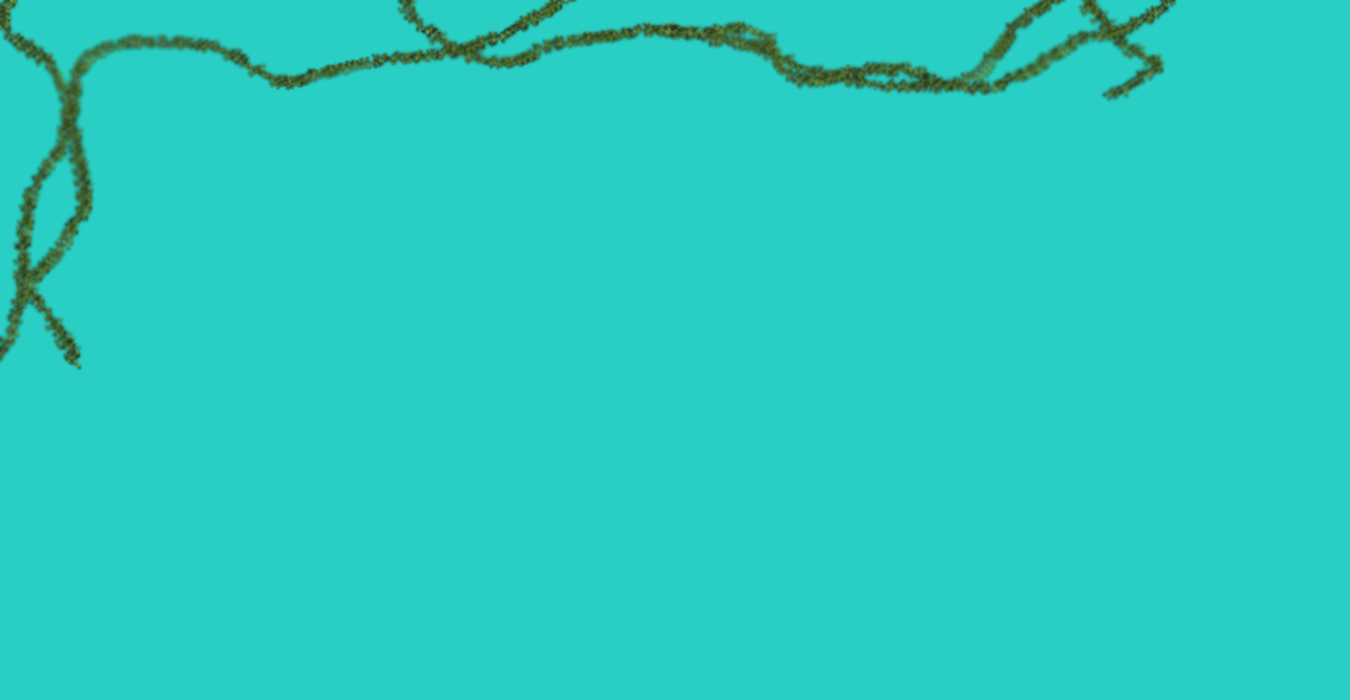
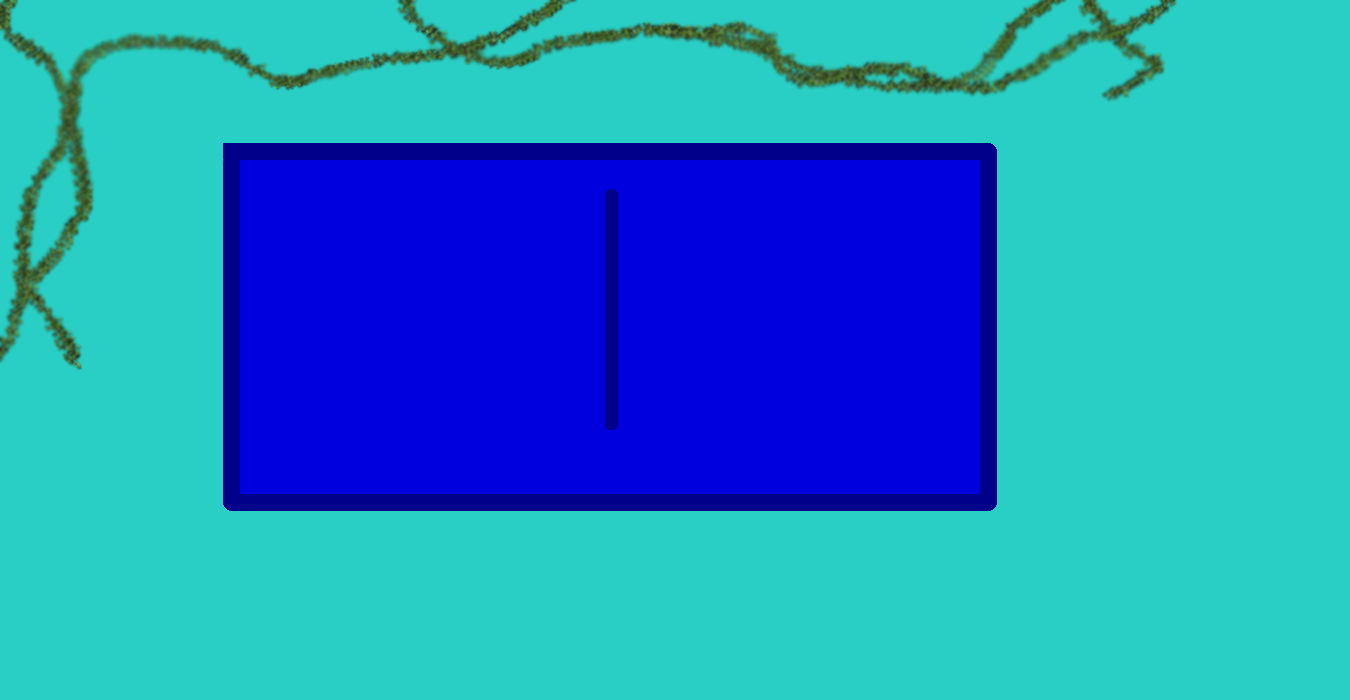
Editing and polish

diff --git a/page3-test.html b/page3-test.html
@@ -12,19 +12,27 @@
 			-o-background-size: cover;
 			background-size: cover;
 		}
+
+		article, aside, figure, footer, header, hgroup,
+		menu, nav, section { display: block; }
+
 	</style>
 
 	<script src="script.js"></script>
-        <script src="https://code.jquery.com/jquery-1.10.2.js"></script>
+  <script src="https://code.jquery.com/jquery-1.10.2.js"></script>
+
 </head>
 
-<body><center><font size='7'><font color="#7e2323">
+<body>
+<br><br><br><center><font size='7'>
+	<font color="darkblue">
+<!--		<font color="#7e2323">-->
+
 <script type="text/javascript">
 document.writeln ('Your plant is ' + GET('name') + ' .' );
 </script><br><center></font>
 
-<!--
--- Input:
+<!--Input:
 http://foo.com/request?habitat="upland"&thornsp="no"&firp="yes"&name=""
 
 habitat: upland/downland/scrub/forest/sandy
@@ -32,64 +40,47 @@ thornsp: does it have thorns? (yes/no)
 firp:    does it have fir? (yes/no)
 name:    common name (optional)
 
--- Output:
+Output:
 {"Latin name","common name","imgurl","wikiurl","habitat","thornsp","firp"}
 -->
 
-<div id="plant-image"></div>
 <script>
-(function() {
-  var plantAPI = "http://yrs2015plant-finnoleary.rhcloud.com/dummy?";
-  $.getJSON( plantAPI, {
-    thorns: "yes",
-    habitat: "scrub",
-    format: "json"
-  })
-    .done(function( data ) {
-      $.each( data.items, function( i, item ) {
-        $( "<img>" ).attr( "src", item.media.m ).appendTo( "#plant-image" );
-        if ( i === 3 ) {
-          return false;
-        }
-      });
-    });
-})();
-</script>
 
-
-<div id="images"></div>
- 
-<script>
+var plantname = GET('name');
 (function() {
   var flickerAPI = "http://api.flickr.com/services/feeds/photos_public.gne?jsoncallback=?";
   $.getJSON( flickerAPI, {
-    tags: "deadly nightshade",
-    tagmode: "any",
-    format: "json"
+		tags: plantname,
+		tagmode: "any",
+		format: "json"
   })
     .done(function( data ) {
       $.each( data.items, function( i, item ) {
-        $( "<img>" ).attr( "src", item.media.m ).appendTo( "#images" );
-        if ( i === 3 ) {
+        $( "<img>" ).attr( "src", item.media.m ).appendTo( "#stock-image" );
+        if ( i === 0 ) {
           return false;
         }
       });
     });
 })();
+
 </script>
 
-<img src="Boz.png"
-   style="position:relative; left: 100px; top: 0px; width:700px; height: 400px; border:none;"
-   alt="Box"
-   title="Box" />
+<br><br><right><div>
+  <img id="stock-image" style="position: absolute; top: 500; center: 5;"/>
+</div></right>
 
-<a href="second_page_for_will_i_die.html"><img src="Upload Photo.png"
-   style="position:relative; right: 220px; top: 64px; width: 195px; height: 130px; broder: none;"
+<!--<br><br><left><div>
+	<img id="blah" src="#" style="position: relative; top: 500; left: 0;"/>
+</div></left>-->
+
+<br><br><br><br><br><a href="second_page_for_will_i_die.html"><img src="Upload Photo.png"
+   style="position:relative; center: 5px; top: 33px; width: 195px; height: 130px; broder: none;"
    alt="Upload"
    title="Upload" />
 
 <a href='Will-I-Die-HomePage.hml'><img src="Finished Button.png"
-   style="position:relative; right: 610px; top: 29px; width:139px; height: 69px; border:none;"
+   style="position:relative; center: 5px; top: 0px; width:139px; height: 69px; border:none;"
    alt="Finished button"
    title="Finish" />
 

diff --git a/second_page_for_will_i_die.html b/second_page_for_will_i_die.html
@@ -3,6 +3,11 @@
 
 <head>
 
+	<link class="jsbin" href="http://ajax.googleapis.com/ajax/libs/jqueryui/1/themes/base/jquery-ui.css" rel="stylesheet" type="text/css" />
+	<script class="jsbin" src="http://ajax.googleapis.com/ajax/libs/jquery/1/jquery.min.js"></script>
+	<script class="jsbin" src="http://ajax.googleapis.com/ajax/libs/jqueryui/1.8.0/jquery-ui.min.js"></script>
+	<meta charset=utf-8 />
+
 	<style>
 		html {
 			background: url(p2background.png) no-repeat center center fixed;
@@ -12,7 +17,7 @@
 			background-size: cover;
 		}
 	</style>
-	
+
 	<script src="script.js"></script>
 
     <h3> Upload your picture here</h3>
@@ -64,8 +69,8 @@
     border-radius:3px;
 
     position: absolute;
-left: 330px;
-top: 250px;
+		left: 296px;
+		top: 185px;
 
     box-shadow: 0 0 10px rgba(0, 0, 0, 0.3);
 }
@@ -176,16 +181,42 @@ top: 250px;
     color:red;
 }
 
+		article, aside, figure, footer, header, hgroup,
+		menu, nav, section { display: block; }
+
   </style>
 
   <p id = "mainParagraph"> Upload your picture so we can match your picture to the type
   of plant and so we can determine whether it is poisonous. You can drag and drop your photos here or you can press the upload button for it to work.</p>
 
-  <form method="GET" action="page3.html">
+  <form method="GET" action="page3-test.html">
 	<div style="margin-left: 64%">
     Plant Name: <input type="text" name="name" value="">
-    <input type="submit" value="send">
+		<input type="submit" value="send">
   </form>
+
+<!--<form method="GET" action="page3-test.html">
+<div style="margin-left: 64%">
+	Upload: <input type='file' name="picture-test" onchange="readURL(this);" />
+	<input type="submit" value="send">
+</form>-->
+
+<script>
+function readURL(input) {
+			 if (input.files && input.files[0]) {
+					 var reader = new FileReader();
+
+					 reader.onload = function (e) {
+							 $('#blah')
+									 .attr('src', e.target.result)
+									 .width(150)
+									 .height(200);
+					 };
+
+					 reader.readAsDataURL(input.files[0]);
+			 }
+	 }
+</script>
 
   <script type="text/javascript">
 
@@ -221,6 +252,9 @@ top: 250px;
 
   <!-- Our main JS file -->
   <script src="assets/js/script.js"></script>
+
+	<!-- Don't touch this -->
+
   </body>
 
 </html>

diff --git a/test3.html b/test3.html
@@ -1,15 +1,31 @@
 <!DOCTYPE html>
 <html>
+<head>
 
-  <head>
-    <link rel="stylesheet" href="style.css">
-    <script src="script.js"></script>
-  </head>
+<title>Test3</title>
+<script>
+function readURL(input) {
+       if (input.files && input.files[0]) {
+           var reader = new FileReader();
 
-  <body>
-    <script type="text/javascript">
-      document.writeln ('Your plant is ' + GET('name) + ' .');
-    </script>
-  </body>
+           reader.onload = function (e) {
+               $('#blah')
+                   .attr('src', e.target.result)
+                   .width(150)
+                   .height(200);
+           };
 
+           reader.readAsDataURL(input.files[0]);
+       }
+   }
+</script>
+<style>
+  article, aside, figure, footer, header, hgroup,
+  menu, nav, section { display: block; }
+</style>
+</head>
+<body>
+  <input type='file' onchange="readURL(this);" />
+  <img id="blah" src="#" alt="your image" />
+</body>
 </html>
